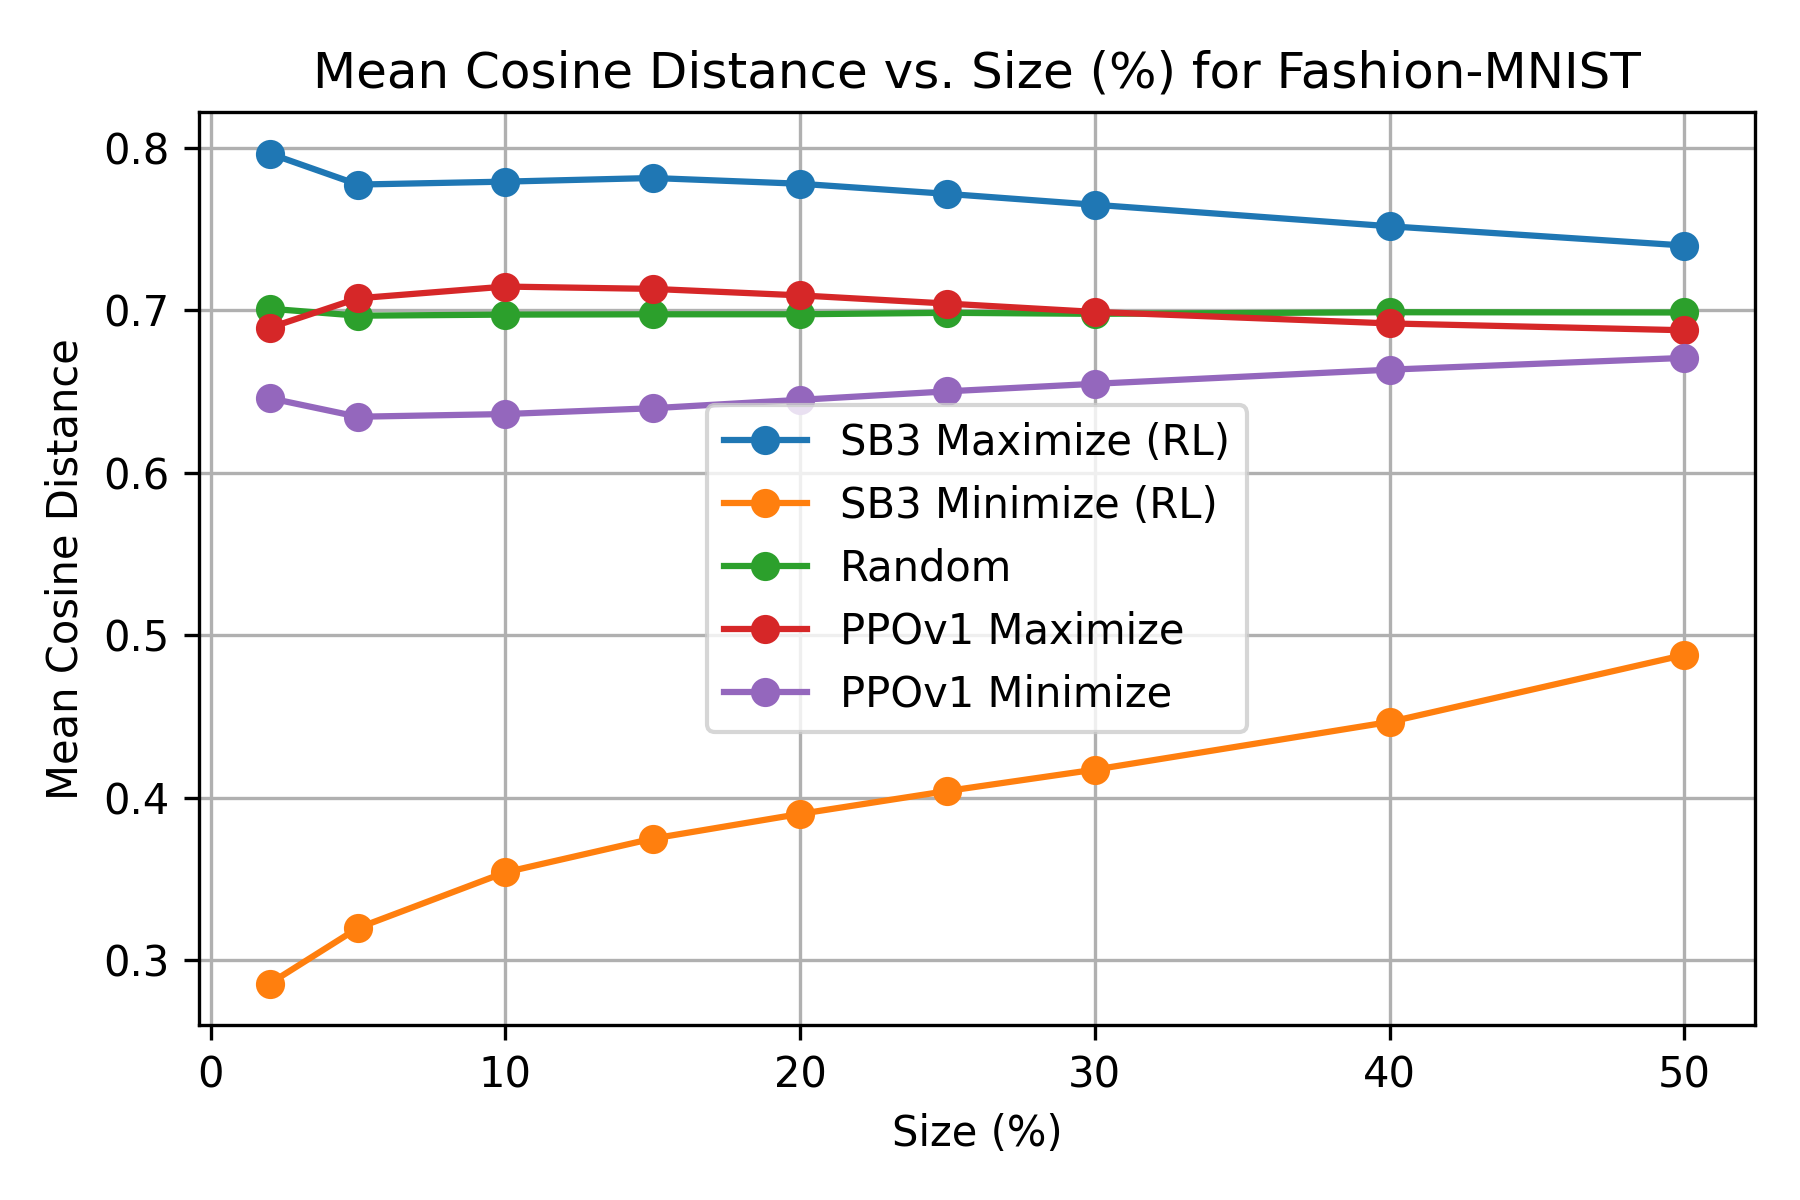
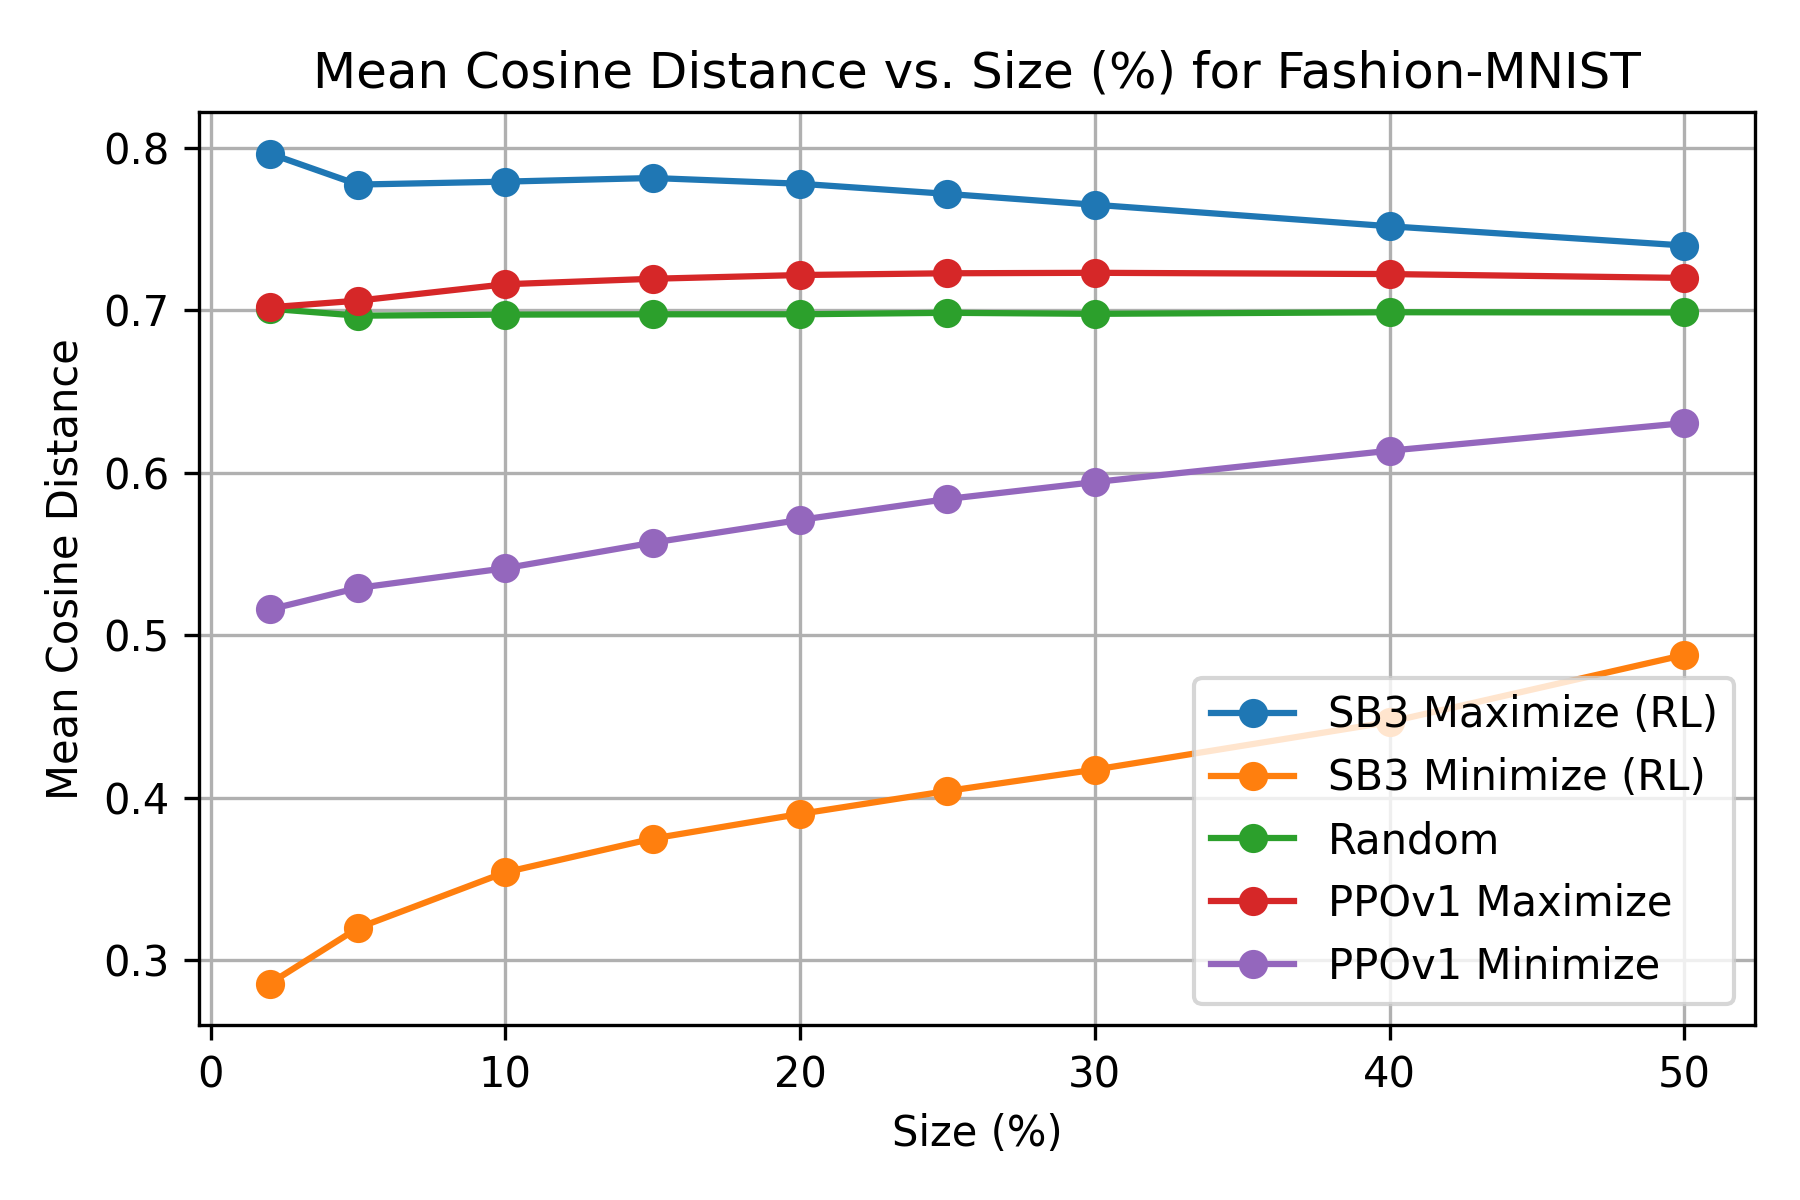
improved performance on fashion-mnist, starting alpaca

diff --git a/src/dss/sb3_comparison/alpaca/embeddings.py b/src/dss/sb3_comparison/alpaca/embeddings.py
@@ -1,0 +1,42 @@
+import numpy as np
+import torch
+from torch.utils.data import DataLoader
+from torchvision import datasets, transforms
+
+def flatten_tensor(t: torch.Tensor) -> torch.Tensor:
+    return t.view(-1)
+
+def build_fashion_mnist_embeddings(batch_size: int=512, device: str | None = None):
+  if device is None:
+    device = "cuda" if torch.cuda.is_available() else "cpu"
+
+  transform = transforms.Compose([
+      transforms.ToTensor(),
+      transforms.Normalize((0.2860,), (0.3530,)),
+      transforms.Lambda(flatten_tensor)
+  ])
+
+  ds = datasets.FashionMNIST(
+      root="./data",
+      train=True,
+      download=True,
+      transform=transform
+  )
+
+  loader = DataLoader(
+      ds,
+      batch_size=batch_size,
+      shuffle=False,
+      num_workers=4,
+      pin_memory=True
+  )
+
+  X_list, y_list = [], []
+  for imgs, labels in loader:
+    X_list.append(imgs.float().cpu().numpy())
+    y_list.append(labels.long().cpu().numpy())
+
+  X_embed = np.concatenate(X_list, axis=0).astype(np.float32)
+  y = np.concatenate(y_list, axis=0).astype(np.int64)
+
+  return X_embed, y

diff --git a/src/dss/policies/ppov1.py b/src/dss/policies/ppov1.py
@@ -24,9 +24,9 @@ class PPOv1Config:
     learning_rate: float = 3e-4
     num_steps: int = 2048              # Paper: 2048
     anneal_lr: bool = True
-    gae: bool = False                   # Paper: λ=0 means no GAE
-    gamma: float = 1.0                  # Paper: 1.0 (no discounting)
-    gae_lambda: float = 0.0             # Paper: 0.0 (no GAE)
+    gae: bool = True                   # Paper: λ=0 means no GAE
+    gamma: float = 0.99                  # Paper: 1.0 (no discounting)
+    gae_lambda: float = 0.95             # Paper: 0.0 (no GAE)
     update_epochs: int = 10             # Paper: 10
     minibatch_size: int = 64            # Paper: 64
     clip_coef: float = 0.2

diff --git a/src/dss/sb3_comparison/eval.py b/src/dss/sb3_comparison/eval.py
@@ -53,7 +53,7 @@ def evaluate_ppov1(size_percents, N, X_unit, ppo_v1_max, ppo_v1_min):
         idx_min, _ = ppo_v1_min.score_and_rank_inference(
             X_embed=X_unit,
             k=M,
-            minimize=True,
+            minimize=False,
         )
 
         m_ppov1_max = mean_cosine_distance_for_indices(X_unit, idx_max)
